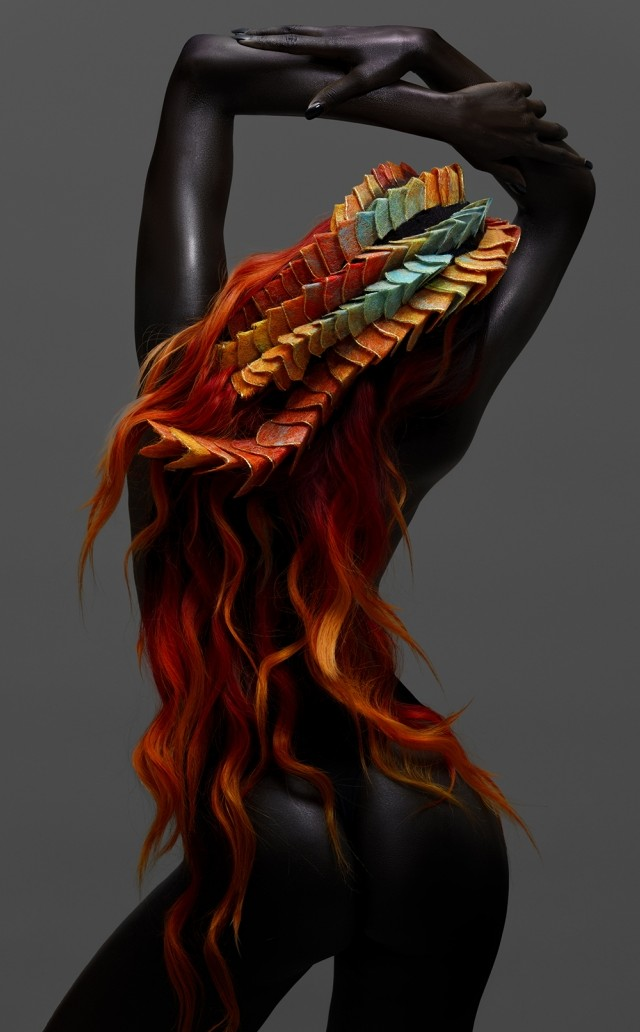
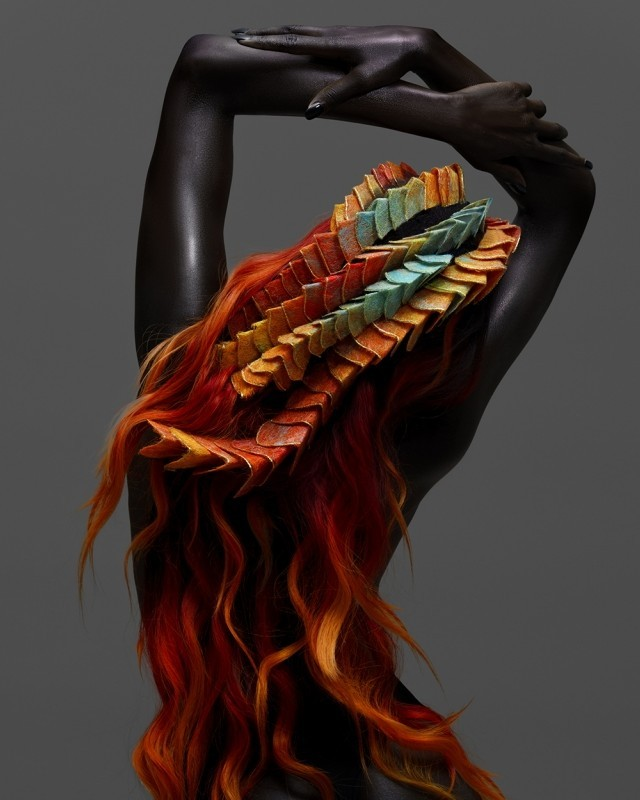
chore: sync latest app updates for Android, web, assets and links

diff --git a/lib/core/ui_widgets.dart b/lib/core/ui_widgets.dart
@@ -18,7 +18,7 @@ class UiSizes {
   static const double btnRadius = 22;
   static const double btnBorder = 1.6;
   static const double btnIcon = 18;
-  static const double btnFont = 15.8;
+  static const double btnFont = 16.2;
   static const double btnGap = 8;
   static const double btnRowPadH = 10;
   static const double btnRowPadV = 8;
@@ -63,13 +63,13 @@ String titleCaseFirstOnly(String s) {
 }
 
 const Color kLuxuryIvoryText = UiColors.ivoryStrong;
-const Color kLuxuryOutlineGold = Color(0xFFD4AF37);
 
 const List<String> kCalligraphicFallback = <String>[
+  'Times New Roman',
   'Snell Roundhand',
   'Segoe Script',
   'Lucida Handwriting',
-  'Times New Roman',
+  'Georgia',
 ];
 
 const List<String> kReadableBodyFallback = <String>[
@@ -105,73 +105,42 @@ class RainbowText extends StatelessWidget {
     String display = text;
     if (allCaps) display = text.toUpperCase();
     if (firstCapsOnly && !allCaps) display = titleCaseFirstOnly(text);
-    final useCalligraphic =
+    final isTitle =
         headingStyle ||
         (weight.value >= FontWeight.w800.value && fontSize >= 16.0);
-    final resolvedFontFamily = useCalligraphic ? 'Times New Roman' : 'Roboto';
-    final resolvedFontFallback = useCalligraphic
+    final resolvedFontFamily = isTitle ? 'Times New Roman' : 'Roboto';
+    final resolvedFontFallback = isTitle
         ? kCalligraphicFallback
         : kReadableBodyFallback;
-    final resolvedFontStyle = useCalligraphic
-        ? FontStyle.italic
-        : FontStyle.normal;
+    final resolvedFontStyle = isTitle ? FontStyle.italic : FontStyle.normal;
 
     final resolvedLetterSpacing =
-        (useCalligraphic ? letterSpacing + 0.20 : letterSpacing) * uiScale;
-    final resolvedFontSize = fontSize * uiScale;
+        (isTitle ? letterSpacing + 0.26 : letterSpacing + 0.08) * uiScale;
+    final resolvedFontSize = fontSize * uiScale * (isTitle ? 1.14 : 1.06);
 
-    final textWidget = Stack(
-      children: [
-        Text(
-          display,
-          style: TextStyle(
-            fontSize: resolvedFontSize,
-            fontWeight: weight,
-            fontFamily: resolvedFontFamily,
-            fontFamilyFallback: resolvedFontFallback,
-            fontStyle: resolvedFontStyle,
-            decoration: TextDecoration.none,
-            decorationColor: Colors.transparent,
-            letterSpacing: resolvedLetterSpacing,
-            height: useCalligraphic ? 1.06 : 1.14,
-            foreground: Paint()
-              ..style = PaintingStyle.stroke
-              ..strokeWidth = useCalligraphic ? 2.3 * uiScale : 1.8 * uiScale
-              ..color = kLuxuryOutlineGold,
-          ),
-        ),
-        Text(
-          display,
-          style: TextStyle(
-            fontSize: resolvedFontSize,
-            fontWeight: weight,
-            fontFamily: resolvedFontFamily,
-            fontFamilyFallback: resolvedFontFallback,
-            fontStyle: resolvedFontStyle,
-            color: kLuxuryIvoryText,
-            decoration: TextDecoration.none,
-            decorationColor: Colors.transparent,
-            letterSpacing: resolvedLetterSpacing,
-            height: useCalligraphic ? 1.06 : 1.14,
-            shadows: [
-              Shadow(
-                color: Colors.black.withValues(alpha: 0.36),
-                blurRadius: 2.4,
-                offset: const Offset(0, 1),
-              ),
-            ],
-          ),
-        ),
-      ],
+    final textWidget = Text(
+      display,
+      style: TextStyle(
+        fontSize: resolvedFontSize,
+        fontWeight: weight,
+        fontFamily: resolvedFontFamily,
+        fontFamilyFallback: resolvedFontFallback,
+        fontStyle: resolvedFontStyle,
+        color: isTitle ? UiColors.ivoryStrong : UiColors.ivory,
+        decoration: TextDecoration.none,
+        decorationColor: Colors.transparent,
+        letterSpacing: resolvedLetterSpacing,
+        height: isTitle ? 1.08 : 1.18,
+      ),
     );
 
-    if (!useCalligraphic) {
+    if (!isTitle) {
       return textWidget;
     }
 
     return Transform(
       alignment: Alignment.centerLeft,
-      transform: Matrix4.identity()..setEntry(0, 1, -0.03),
+      transform: Matrix4.identity()..setEntry(0, 1, -0.02),
       child: textWidget,
     );
   }
@@ -331,9 +300,9 @@ class RainbowParagraph extends StatelessWidget {
   const RainbowParagraph(
     this.text, {
     super.key,
-    this.fontSize = 15.8,
+    this.fontSize = 16.4,
     this.height = 1.35,
-    this.weight = FontWeight.w700,
+    this.weight = FontWeight.w600,
   });
 
   @override

diff --git a/lib/core/app_config.dart b/lib/core/app_config.dart
@@ -2,7 +2,7 @@ import 'package:flutter/material.dart';
 
 class AppConfig {
   static const String appName = 'Ana Maria Studio & Academy';
-  static bool get enableRemoteGallery => true;
+  static bool get enableRemoteGallery => false;
   static const String remoteGalleryRoot = 'gallery';
 }
 
@@ -67,8 +67,8 @@ class AppAssets {
       pinkNamed('hair_up_event_styling.jpg');
   static final String bgSignatureTransformation =
       pinkNamed('signature_transformation.jpg');
-    static final String bgHairTherapy = pinkNamed('hair_therapy.jpg');
-    static final String bgHairExtensions = pinkNamed('hair_extensions.jpg');
+  static final String bgHairTherapy = pinkNamed('hair_therapy.jpg');
+  static final String bgHairExtensions = pinkNamed('hair_extensions.jpg');
 
   static final String bgFastConsult = pinkNamed('fast_consult.jpg');
   static final String bgReiki = pinkNamed('reiki.jpg');
@@ -156,7 +156,7 @@ class AppLinks {
   static const String instagram =
       'https://www.instagram.com/anamaria.hair_studio?igsh=MW5yYXB2MjY3ZmVmaQ%3D%3D&utm_source=qr';
   static const String tiktok =
-      'https://www.tiktok.com/@anamariahairstudio?_r=1&_t=ZN-93kYvxCX5IE';
+      'https://www.tiktok.com/@anamariahairstudio.co.uk?_r=1&_t=ZN-94f7n67x4Ug';
 
   static const String website = '';
 }

diff --git a/lib/section_page.dart b/lib/section_page.dart
@@ -66,20 +66,14 @@ class _SectionPageState extends State<SectionPage> {
             child: Stack(
               children: [
                 Positioned.fill(
-                  child: Transform.translate(
-                    offset: LayerTuning.pinkOffset,
-                    child: Transform.scale(
-                      scale: LayerTuning.pinkScale,
-                      child: Image.asset(
-                        resolvedBackgroundAsset,
-                        fit: BoxFit.contain,
-                        alignment: LayerTuning.pinkAlignment,
-                        filterQuality: FilterQuality.high,
-                        gaplessPlayback: true,
-                        errorBuilder: (_, __, ___) =>
-                            Container(color: Colors.black),
-                      ),
-                    ),
+                  child: Image.asset(
+                    resolvedBackgroundAsset,
+                    fit: BoxFit.cover,
+                    alignment: Alignment.topCenter,
+                    filterQuality: FilterQuality.high,
+                    gaplessPlayback: true,
+                    errorBuilder: (_, __, ___) =>
+                        Container(color: Colors.black),
                   ),
                 ),
                 Padding(

diff --git a/lib/layers/pink_layer.dart b/lib/layers/pink_layer.dart
@@ -39,8 +39,8 @@ class PinkLayer extends StatelessWidget {
             children: [
               Image.asset(
                 fallbackAsset,
-                fit: BoxFit.contain,
-                alignment: Alignment.center,
+                fit: BoxFit.cover,
+                alignment: Alignment.topCenter,
                 filterQuality: FilterQuality.high,
                 gaplessPlayback: true,
                 errorBuilder: (_, __, ___) => Container(color: Colors.black),
@@ -48,8 +48,8 @@ class PinkLayer extends StatelessWidget {
               if (hasCustomAsset)
                 Image.asset(
                   requestedAsset,
-                  fit: BoxFit.contain,
-                  alignment: Alignment.center,
+                  fit: BoxFit.cover,
+                  alignment: Alignment.topCenter,
                   filterQuality: FilterQuality.high,
                   gaplessPlayback: true,
                   errorBuilder: (_, __, ___) => const SizedBox.shrink(),

diff --git a/lib/core/section_card.dart b/lib/core/section_card.dart
@@ -19,12 +19,12 @@ class SectionCard extends StatelessWidget {
         child: ClipRRect(
           borderRadius: BorderRadius.circular(18),
           child: BackdropFilter(
-            filter: ImageFilter.blur(sigmaX: 6, sigmaY: 6),
+            filter: ImageFilter.blur(sigmaX: 3.2, sigmaY: 3.2),
             child: Container(
               padding: const EdgeInsets.all(18),
               margin: const EdgeInsets.only(bottom: 14),
               decoration: BoxDecoration(
-                color: Colors.black.withValues(alpha: 0.62),
+                color: Colors.black.withValues(alpha: 0.72),
                 borderRadius: BorderRadius.circular(18),
                 border: showBorder
                     ? Border.all(
